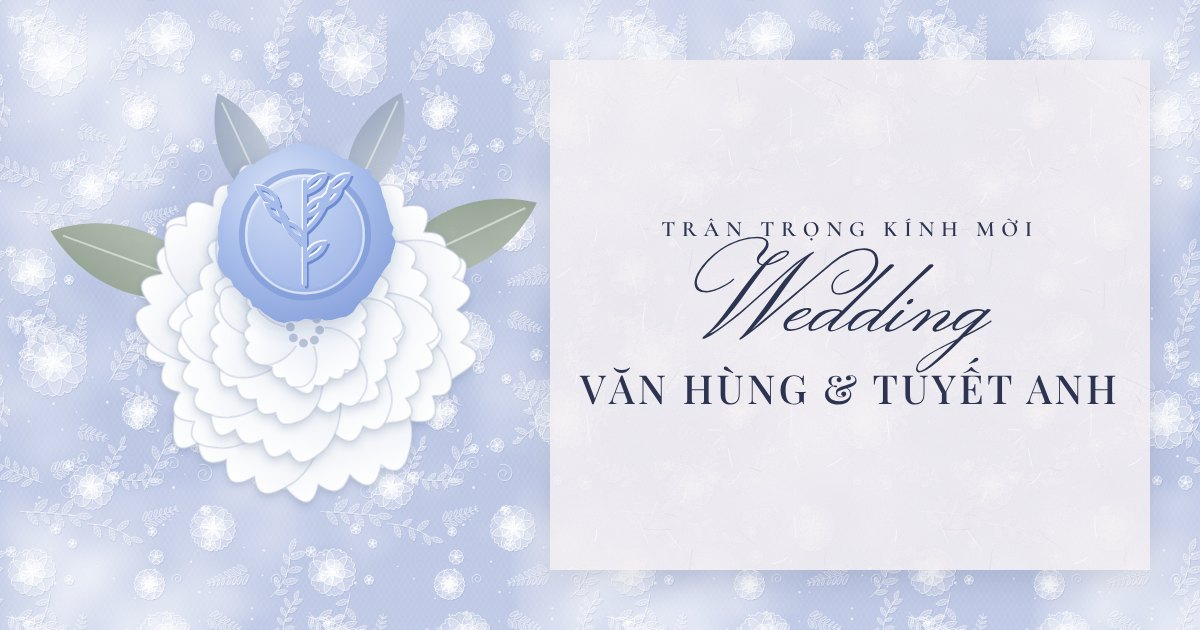
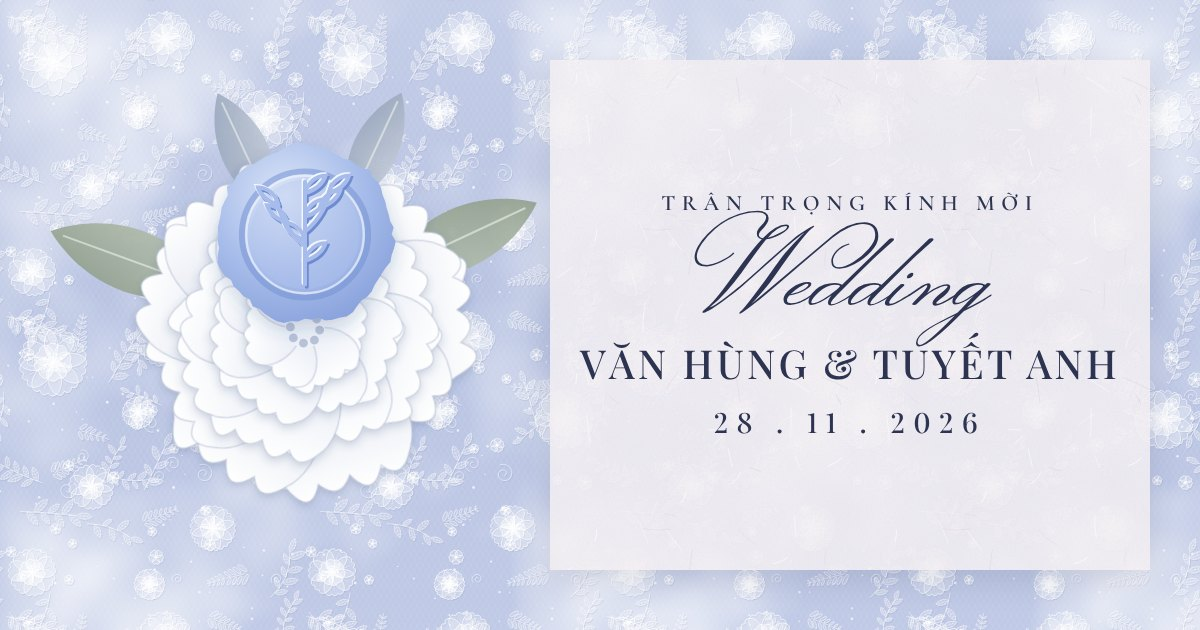
Mẫu xanh pastel: ngày cưới 28/11/2026, 10:30
Lịch tháng, đếm ngược, ngày âm lịch (20/10 Bính Ngọ) và ảnh xem trước
khi chia sẻ link đều theo ngày mới.

Claude-Session: https://claude.ai/code/session_015XKduHNmYjq2tWTLnQVHa5

Changed region(s): [[0.4625, 0.3016, 0.925, 0.6937]]

diff --git a/xanh-pastel/js/config.js b/xanh-pastel/js/config.js
@@ -14,8 +14,7 @@ window.WEDDING = {
   bride: { name: 'Tuyết Anh', short: 'Tuyết Anh' },
 
   // Giờ lễ/tiệc chính: dùng cho lời mời, đếm ngược và lịch tháng
-  // CHƯA CÓ NGÀY CƯỚI: giờ 10:30 là thật, ngày 07/03/2027 chỉ là ngày tạm.
-  date: '2027-03-07T10:30',
+  date: '2026-11-28T10:30',
 
   cover: {
     hint: 'Chạm để mở thiệp',
